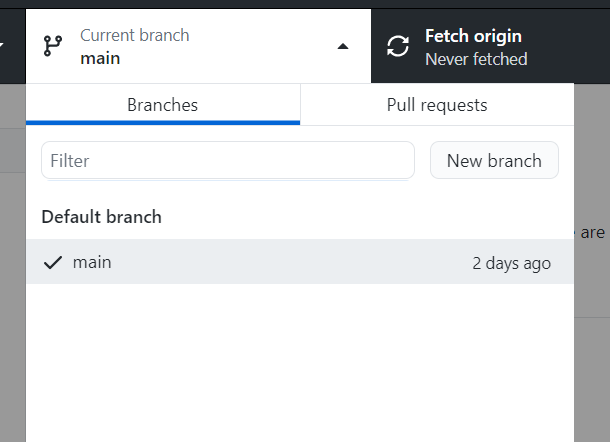
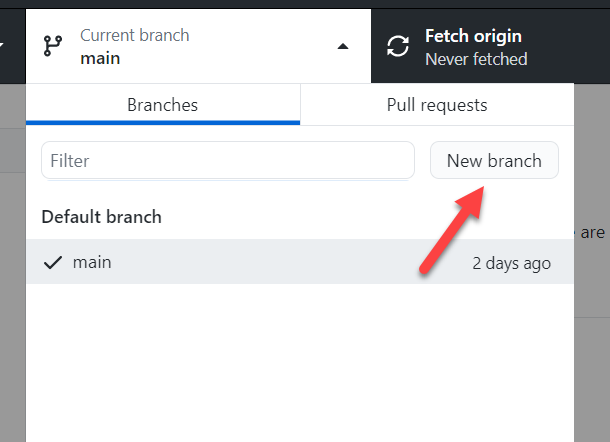
readme
add more images and more edits

Changed region(s): [[0.6852, 0.4118, 0.8098, 0.6471]]

diff --git a/README.md b/README.md
@@ -7,7 +7,7 @@
 
 1. Go to <a href="https://github.com" target="_blank">Github website (right click on this link to open in new window)</a> and click on "Pricing and signup"
 
-![github signup](images/gh1.png)
+![gh_tutorial](images/gh1.png)
 
 2. Enter your email address and click continue.
 
@@ -73,15 +73,29 @@
 
 ![github signup](images/gh18.png)
 
-18. One of the advantage so using GitHub is the ability to create branches of your project while you are making
- changes. Once you have reviewed your change you can commit those changes to the main branch. The main branch is created
-by default. Let's create a "dev" or development branch.
+18. One of the advantages of using GitHub is the ability to create branches or copies of your project while you are making
+ changes. By default a "<strong>main</strong>" branch is created when you add a GitHub repository. You can create additional branches 
+like a "<strong>dev</strong>" or development branch that is a duplicate of your "<strong>main</strong>" branch. 
+You then make changes to your "<strong>dev</strong>" branch. 
+Once you have reviewed and tested those changes you can <strong>commit</strong>
+those changes to the main branch. Let's now create a "<strong>dev</strong>" or development branch. Click on "New branch"
 
-![github signup](images/gh19.png)
+![gh_tutorial](images/gh19.png)
 
-19. Select the GitHub.com tab, select your repository, choose your location and click "Clone".
+19. Type "dev" for the name and select "Create branch".
 
 ![github signup](images/gh20.png)
+
+20. Type "dev" for the name and select "Create branch".
+
+![github signup](images/gh20.png)
+
+21. Click "Publish branch" so that the branch is created on the remote site. GitHub is using Git to create these branches 
+locally as well as running all of the other Git commands that GitHub Desktop is built upon. 
+
+![github signup](images/gh22.png)
+
+
 
 
 
